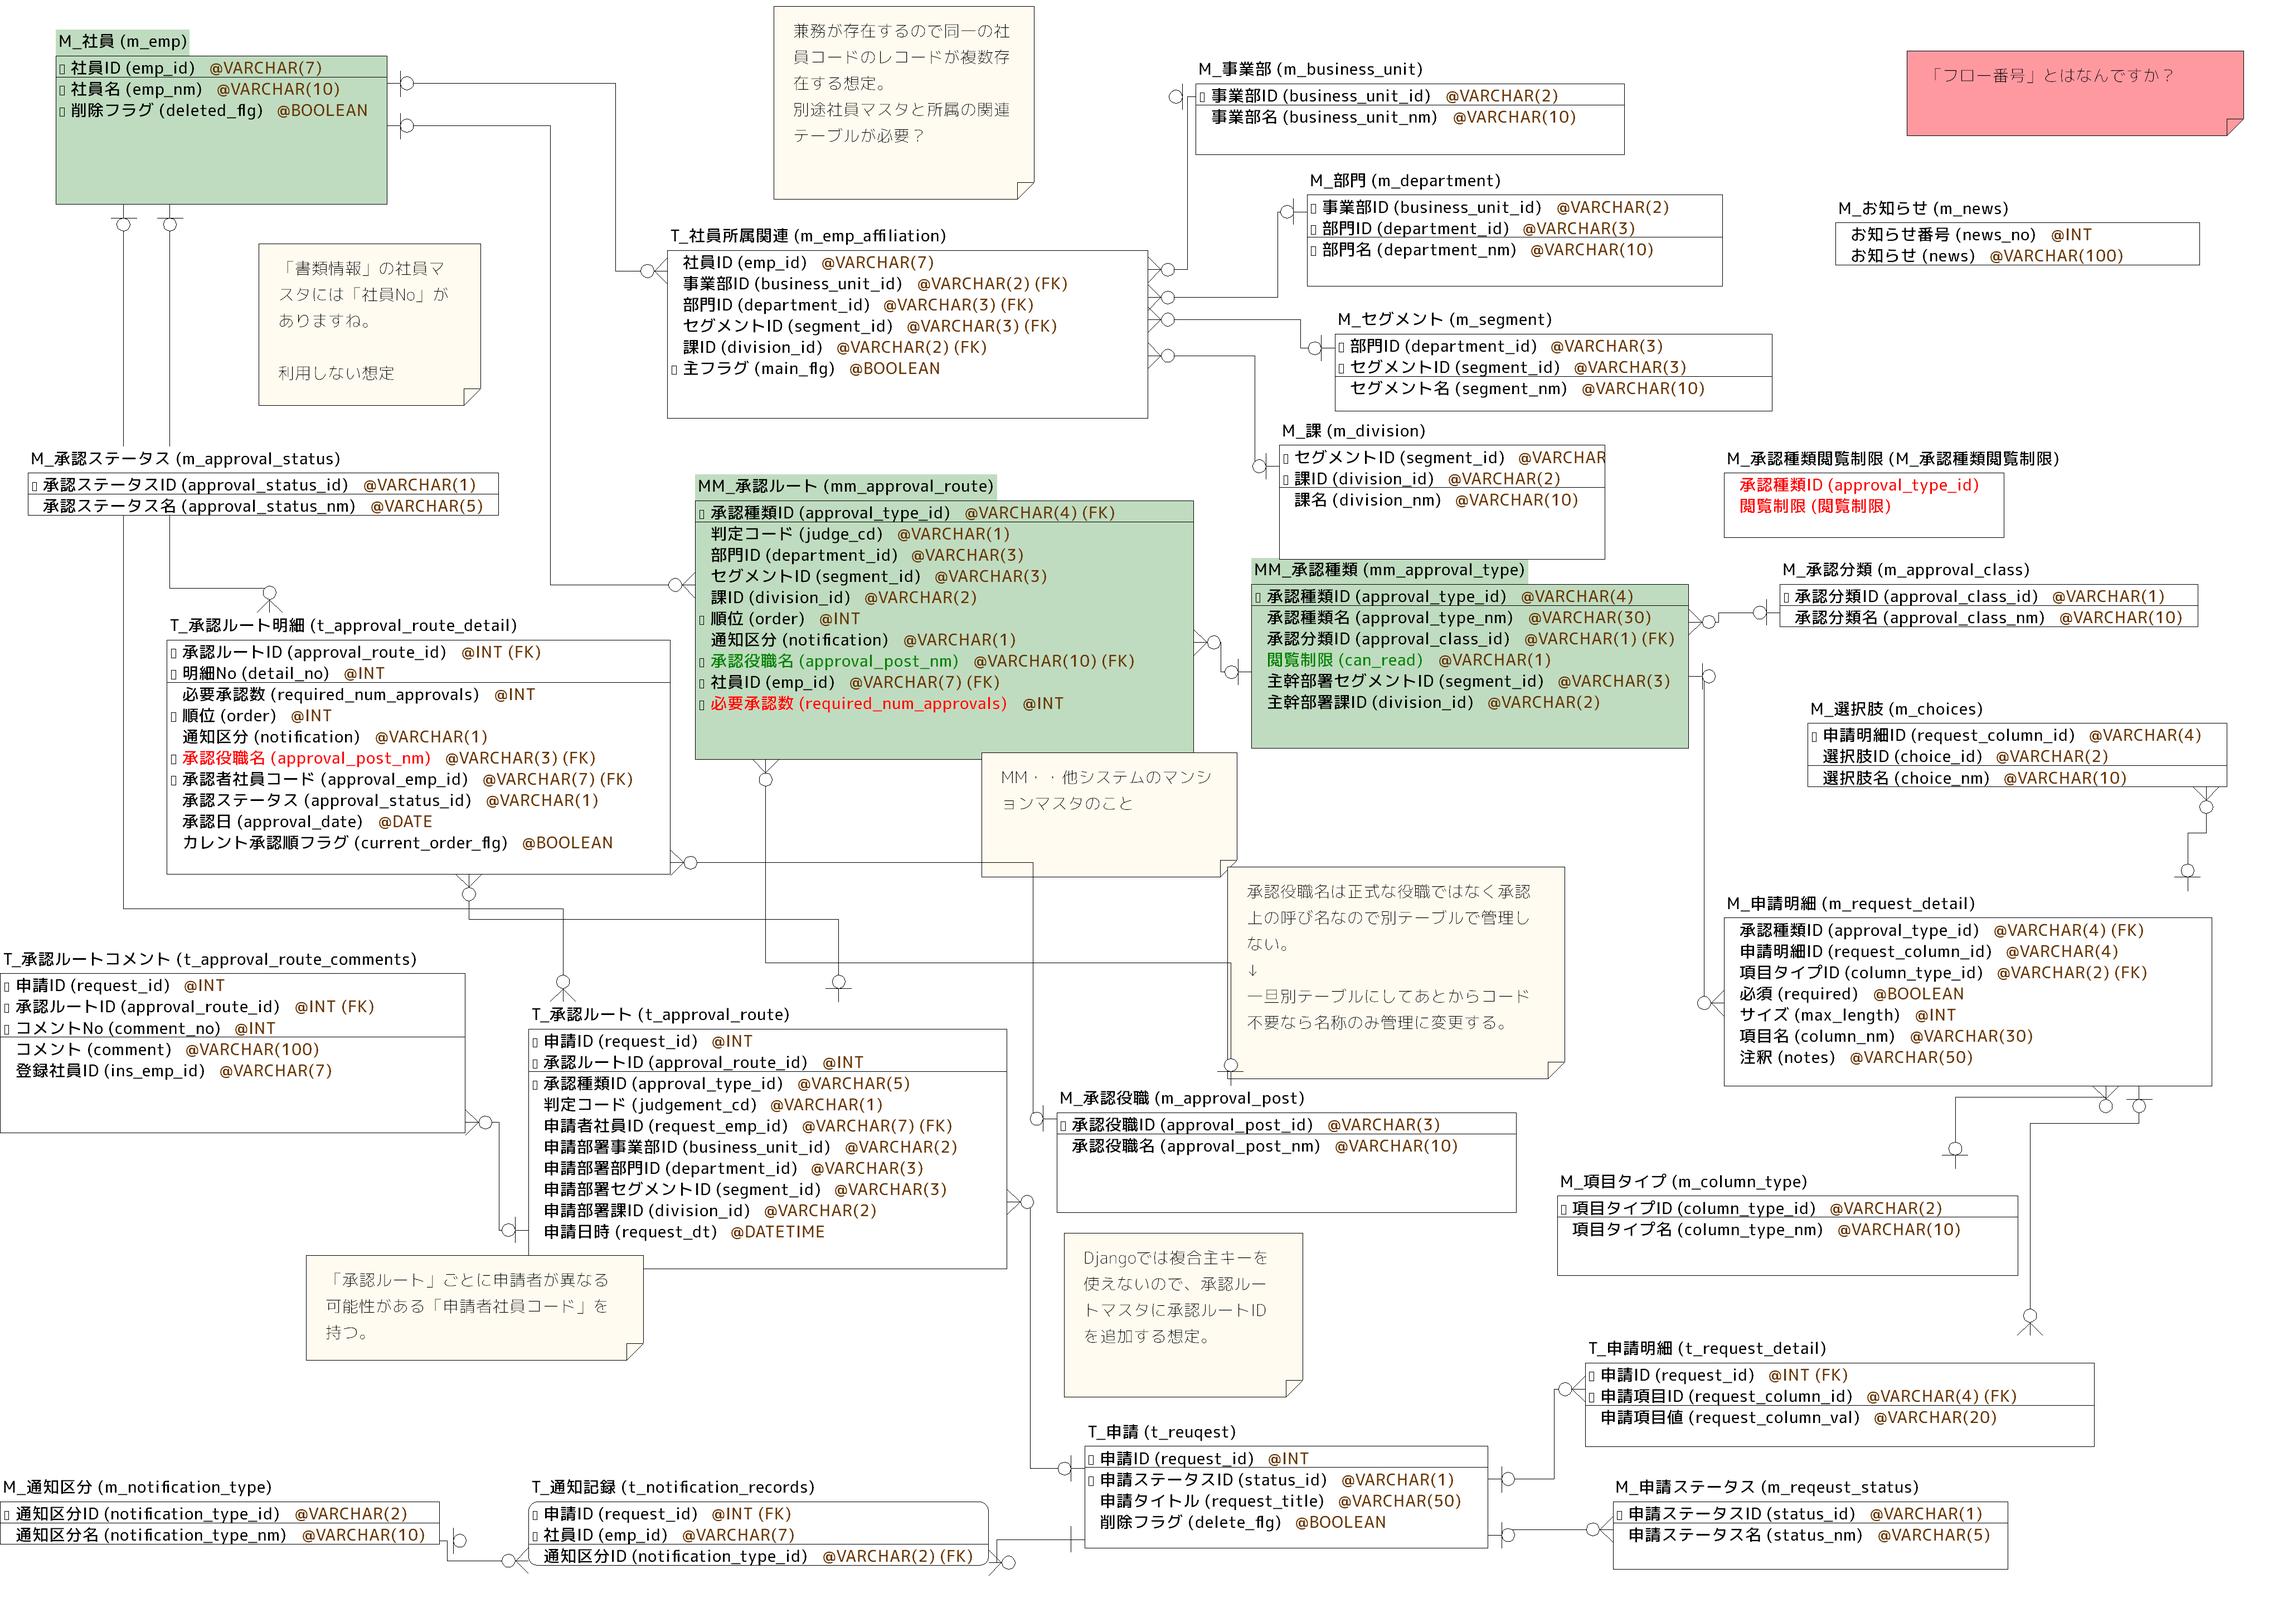
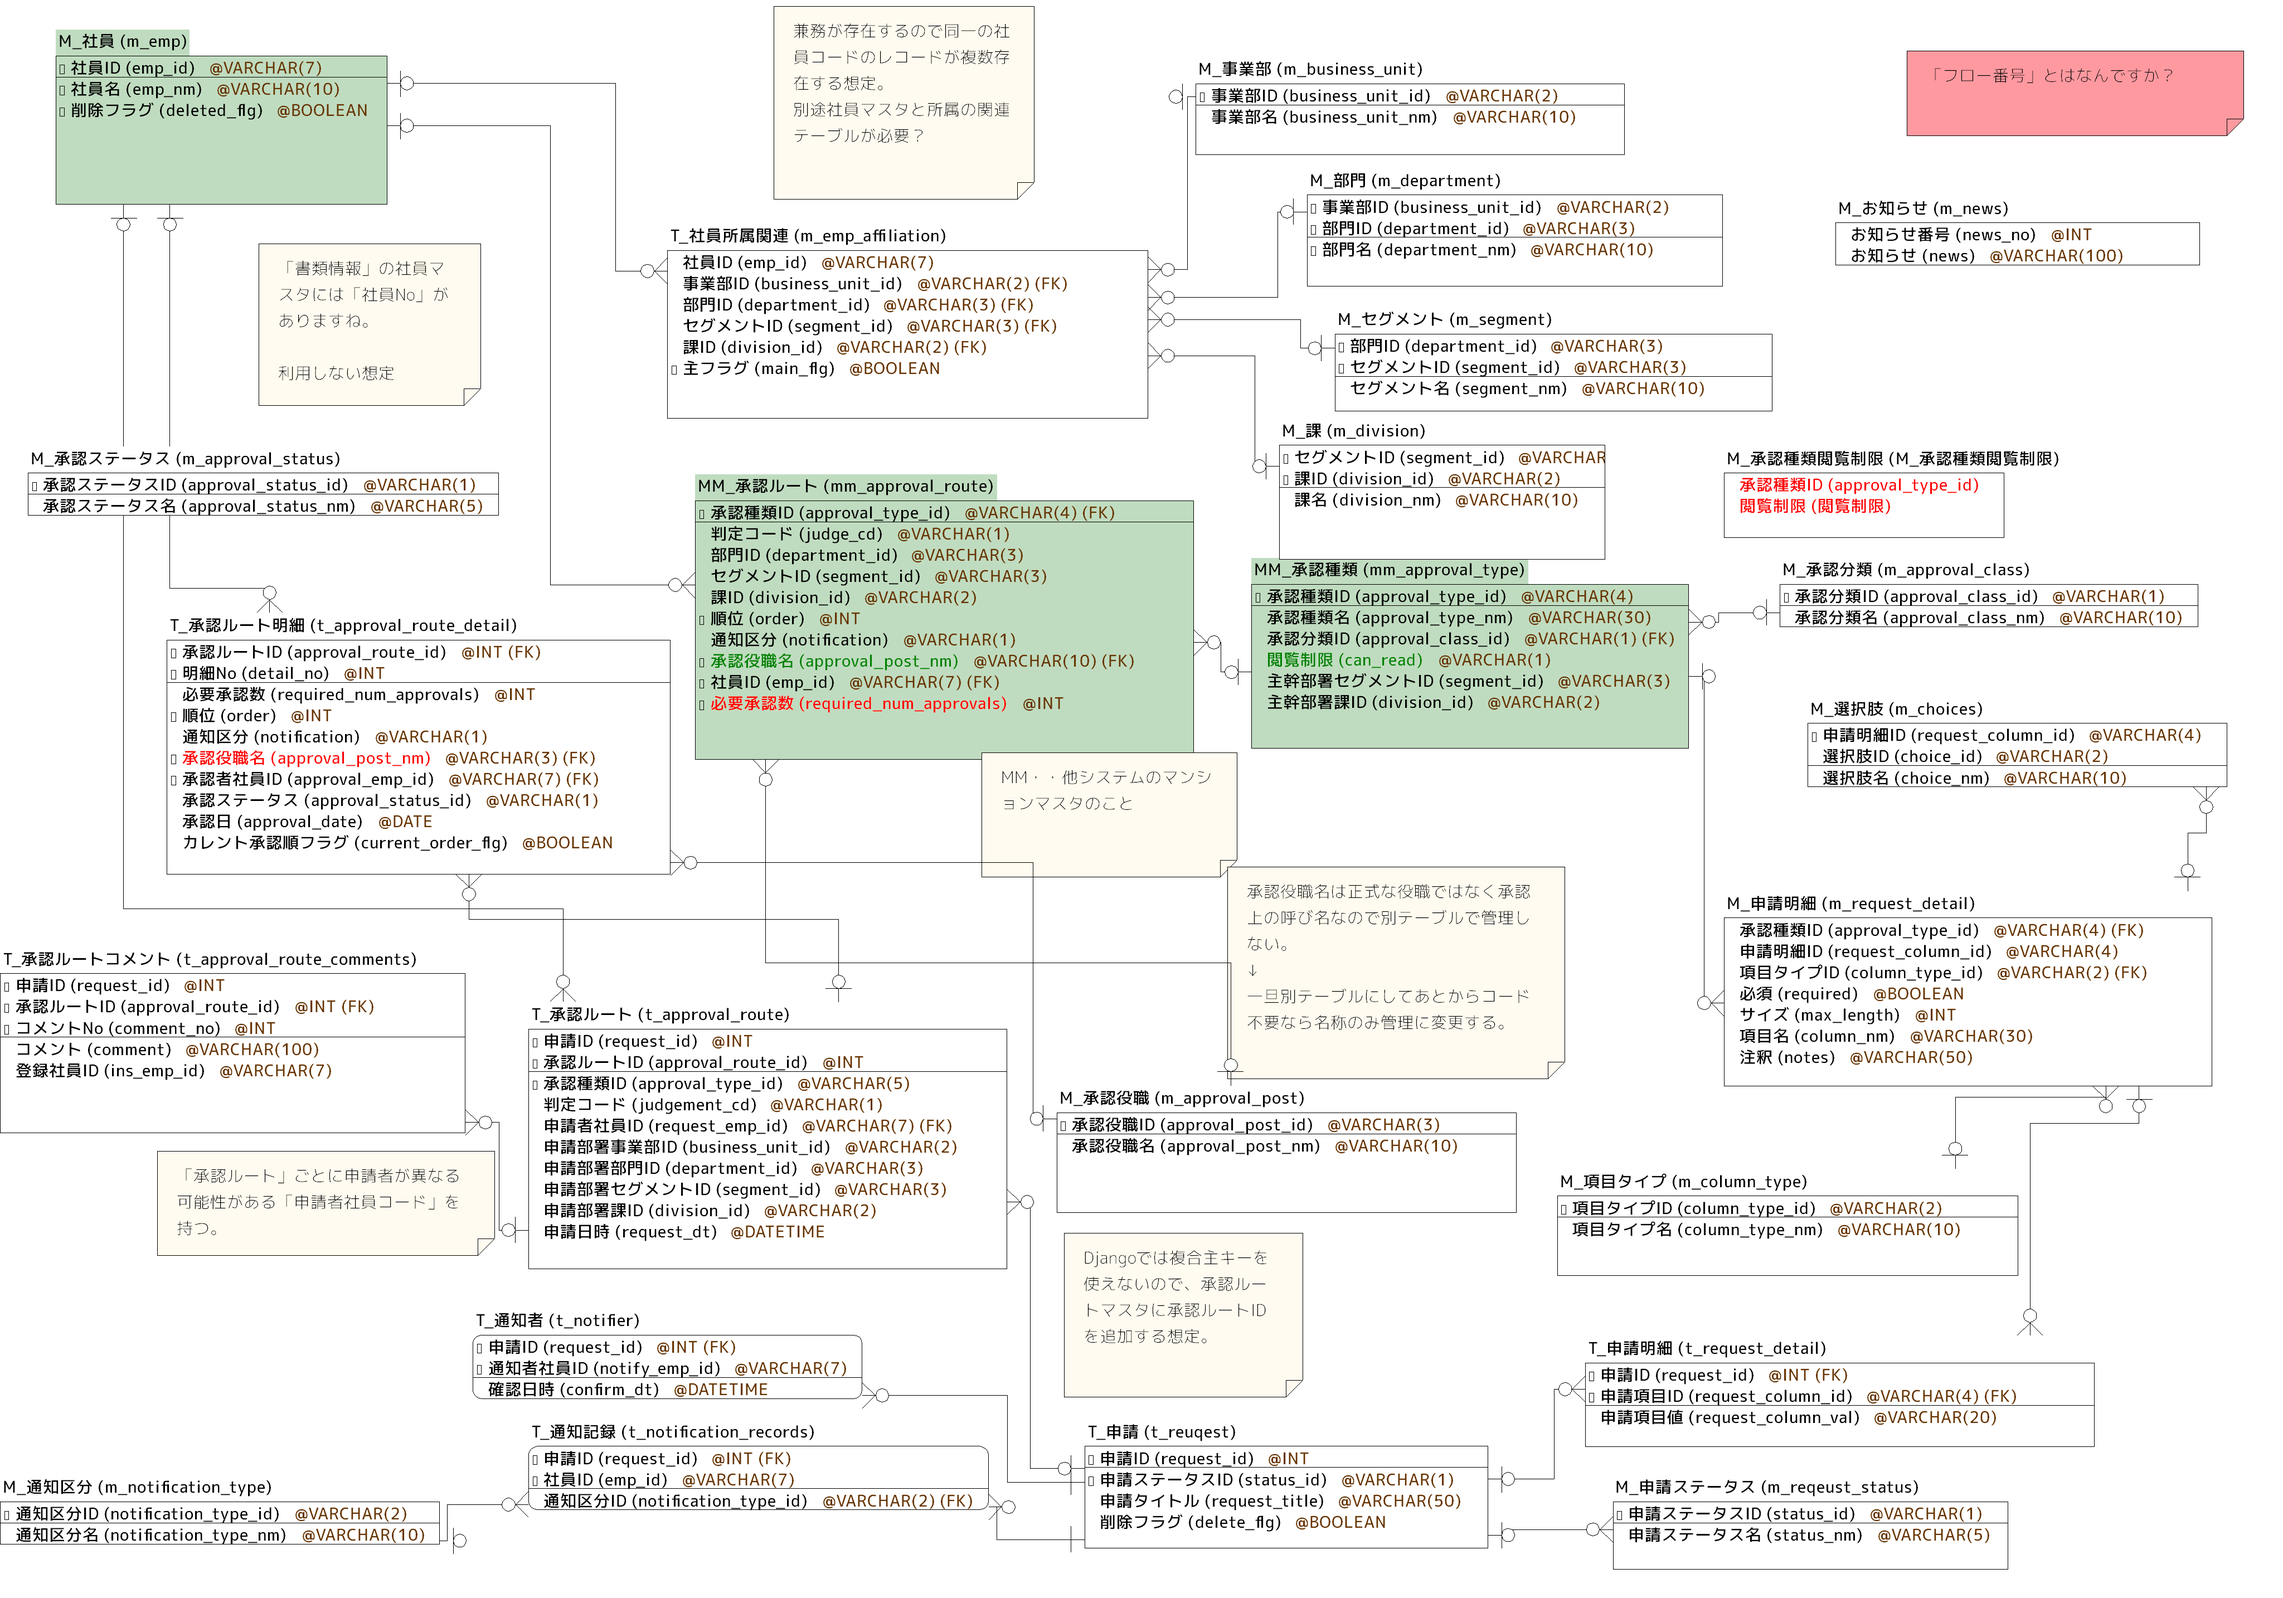
ER修正 「T_通知者」 追加

diff --git a/docs/設計資料/02_テーブル/entity_list/entities/t_notifier.html b/docs/設計資料/02_テーブル/entity_list/entities/t_notifier.html
@@ -33,13 +33,13 @@
 		</tr>
 		<tr>
 			<th>論理エンティティ名</th>
-			<td>M_通知区分&nbsp;</td>
+			<td>T_通知者&nbsp;</td>
 			<th>タグ&nbsp;</th>
 			<td>&nbsp;</td>
 		</tr>
 		<tr>
 			<th>物理エンティティ名</th>
-			<td>m_notification_type&nbsp;</td>
+			<td>t_notifier&nbsp;</td>
 			<th>&nbsp;</th>
 			<td>&nbsp;</td>
 		</tr>
@@ -72,18 +72,27 @@
 		</tr>
 		<tr>
 			<td style="text-align:right;">1</td>
-			<td>通知区分ID</td>
-			<td>notification_type_id</td>
-			<td>@VARCHAR(2)</td>
+			<td>申請ID</td>
+			<td>request_id</td>
+			<td>@INT</td>
 			<td>Yes (PK)</td>
 			<td></td>
 			<td></td>
 		</tr>
 		<tr>
 			<td style="text-align:right;">2</td>
-			<td>通知区分名</td>
-			<td>notification_type_nm</td>
-			<td>@VARCHAR(10)</td>
+			<td>通知者社員ID</td>
+			<td>notify_emp_id</td>
+			<td>@VARCHAR(7)</td>
+			<td>Yes (PK)</td>
+			<td></td>
+			<td></td>
+		</tr>
+		<tr>
+			<td style="text-align:right;">3</td>
+			<td>確認日時</td>
+			<td>confirm_dt</td>
+			<td>@DATETIME</td>
 			<td>&nbsp;</td>
 			<td></td>
 			<td></td>
@@ -127,6 +136,13 @@
 			<th>参照先</th>
 			<th>参照先カラムリスト</th>
 		</tr>
+		<tr>
+			<td style="text-align:right;">1</td>
+			<td></td>
+			<td>request_id</td>
+			<td>t_reuqest</td>
+			<td>request_id</td>
+		</tr>
 	</table>
 
 <br>
@@ -146,13 +162,6 @@
 			<th>カラムリスト</th>
 			<th>参照元</th>
 			<th>参照元カラムリスト</th>
-		</tr>
-		<tr>
-			<td style="text-align:right;">1</td>
-			<td></td>
-			<td>notification_type_id</td>
-			<td>t_notification_records</td>
-			<td>notification_type_id</td>
 		</tr>
 	</table>
 

diff --git a/docs/設計資料/02_テーブル/entity_list/entities/t_reuqest.html b/docs/設計資料/02_テーブル/entity_list/entities/t_reuqest.html
@@ -23,7 +23,7 @@
 			<th>サブシステム名</th>
 			<td>&nbsp;</td>
 			<th>作成日</th>
-			<td>2021/11/08&nbsp;</td>
+			<td>2021/11/15&nbsp;</td>
 		</tr>
 		<tr>
 			<th>スキーマ名</th>
@@ -169,25 +169,32 @@
 			<td style="text-align:right;">1</td>
 			<td></td>
 			<td>request_id</td>
-			<td>t_notification_records</td>
+			<td>t_notifier</td>
 			<td>request_id</td>
 		</tr>
 		<tr>
 			<td style="text-align:right;">2</td>
 			<td></td>
 			<td>request_id</td>
+			<td>t_notification_records</td>
+			<td>request_id</td>
+		</tr>
+		<tr>
+			<td style="text-align:right;">3</td>
+			<td></td>
+			<td>request_id</td>
 			<td>m_reqeust_status</td>
 			<td></td>
 		</tr>
 		<tr>
-			<td style="text-align:right;">3</td>
+			<td style="text-align:right;">4</td>
 			<td></td>
 			<td>request_id</td>
 			<td>t_request_detail</td>
 			<td>request_id</td>
 		</tr>
 		<tr>
-			<td style="text-align:right;">4</td>
+			<td style="text-align:right;">5</td>
 			<td></td>
 			<td></td>
 			<td>t_approval_route</td>

diff --git a/docs/設計資料/02_テーブル/entity_list/index.html b/docs/設計資料/02_テーブル/entity_list/index.html
@@ -202,13 +202,20 @@
 			</tr>
 			<tr>
 				<td style="text-align:right;">23</td>
+				<td>T_通知者</td>
+				<td><a href="entities\t_notifier.html">t_notifier</a></td>
+				<td></td>
+				<td></td>
+			</tr>
+			<tr>
+				<td style="text-align:right;">24</td>
 				<td>T_申請明細</td>
 				<td><a href="entities\t_request_detail.html">t_request_detail</a></td>
 				<td></td>
 				<td></td>
 			</tr>
 			<tr>
-				<td style="text-align:right;">24</td>
+				<td style="text-align:right;">25</td>
 				<td>T_申請</td>
 				<td><a href="entities\t_reuqest.html">t_reuqest</a></td>
 				<td></td>

diff --git a/docs/設計資料/02_テーブル/entity_list/entities/t_approval_route_detail.html b/docs/設計資料/02_テーブル/entity_list/entities/t_approval_route_detail.html
@@ -23,7 +23,7 @@
 			<th>サブシステム名</th>
 			<td>&nbsp;</td>
 			<th>作成日</th>
-			<td>2021/11/08&nbsp;</td>
+			<td>2021/11/15&nbsp;</td>
 		</tr>
 		<tr>
 			<th>スキーマ名</th>
@@ -126,7 +126,7 @@
 		</tr>
 		<tr>
 			<td style="text-align:right;">7</td>
-			<td>承認者社員コード</td>
+			<td>承認者社員ID</td>
 			<td>approval_emp_id</td>
 			<td>@VARCHAR(7)</td>
 			<td>Yes</td>

diff --git a/docs/設計資料/02_テーブル/entity_list/entities/M_承認種類閲覧制限.html b/docs/設計資料/02_テーブル/entity_list/entities/M_承認種類閲覧制限.html
@@ -23,7 +23,7 @@
 			<th>サブシステム名</th>
 			<td>&nbsp;</td>
 			<th>作成日</th>
-			<td>2021/11/08&nbsp;</td>
+			<td>2021/11/15&nbsp;</td>
 		</tr>
 		<tr>
 			<th>スキーマ名</th>

diff --git a/docs/設計資料/02_テーブル/entity_list/entities/m_approval_class.html b/docs/設計資料/02_テーブル/entity_list/entities/m_approval_class.html
@@ -23,7 +23,7 @@
 			<th>サブシステム名</th>
 			<td>&nbsp;</td>
 			<th>作成日</th>
-			<td>2021/11/08&nbsp;</td>
+			<td>2021/11/15&nbsp;</td>
 		</tr>
 		<tr>
 			<th>スキーマ名</th>

diff --git a/docs/設計資料/02_テーブル/entity_list/entities/m_approval_post.html b/docs/設計資料/02_テーブル/entity_list/entities/m_approval_post.html
@@ -23,7 +23,7 @@
 			<th>サブシステム名</th>
 			<td>&nbsp;</td>
 			<th>作成日</th>
-			<td>2021/11/08&nbsp;</td>
+			<td>2021/11/15&nbsp;</td>
 		</tr>
 		<tr>
 			<th>スキーマ名</th>

diff --git a/docs/設計資料/02_テーブル/entity_list/entities/m_approval_status.html b/docs/設計資料/02_テーブル/entity_list/entities/m_approval_status.html
@@ -23,7 +23,7 @@
 			<th>サブシステム名</th>
 			<td>&nbsp;</td>
 			<th>作成日</th>
-			<td>2021/11/08&nbsp;</td>
+			<td>2021/11/15&nbsp;</td>
 		</tr>
 		<tr>
 			<th>スキーマ名</th>

diff --git a/docs/設計資料/02_テーブル/entity_list/entities/m_business_unit.html b/docs/設計資料/02_テーブル/entity_list/entities/m_business_unit.html
@@ -23,7 +23,7 @@
 			<th>サブシステム名</th>
 			<td>&nbsp;</td>
 			<th>作成日</th>
-			<td>2021/11/08&nbsp;</td>
+			<td>2021/11/15&nbsp;</td>
 		</tr>
 		<tr>
 			<th>スキーマ名</th>

diff --git a/docs/設計資料/02_テーブル/entity_list/entities/m_choices.html b/docs/設計資料/02_テーブル/entity_list/entities/m_choices.html
@@ -23,7 +23,7 @@
 			<th>サブシステム名</th>
 			<td>&nbsp;</td>
 			<th>作成日</th>
-			<td>2021/11/08&nbsp;</td>
+			<td>2021/11/15&nbsp;</td>
 		</tr>
 		<tr>
 			<th>スキーマ名</th>

diff --git a/docs/設計資料/02_テーブル/entity_list/entities/m_column_type.html b/docs/設計資料/02_テーブル/entity_list/entities/m_column_type.html
@@ -23,7 +23,7 @@
 			<th>サブシステム名</th>
 			<td>&nbsp;</td>
 			<th>作成日</th>
-			<td>2021/11/08&nbsp;</td>
+			<td>2021/11/15&nbsp;</td>
 		</tr>
 		<tr>
 			<th>スキーマ名</th>

diff --git a/docs/設計資料/02_テーブル/entity_list/entities/m_department.html b/docs/設計資料/02_テーブル/entity_list/entities/m_department.html
@@ -23,7 +23,7 @@
 			<th>サブシステム名</th>
 			<td>&nbsp;</td>
 			<th>作成日</th>
-			<td>2021/11/08&nbsp;</td>
+			<td>2021/11/15&nbsp;</td>
 		</tr>
 		<tr>
 			<th>スキーマ名</th>
